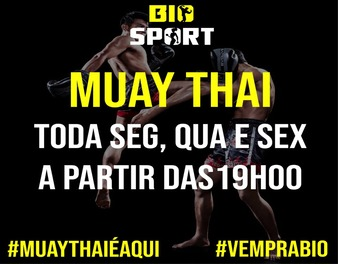
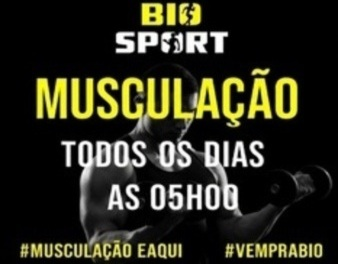
final do site

diff --git a/index.html b/index.html
@@ -66,19 +66,19 @@
                 <div class="topics">
                     <img src="./img/jump.png" alt="Jump">
                     <p>
-                        Venha fazer Jump conosco.
+                        Na vida, assim como no treino, às vezes você só precisa dar um grande jump de fé.
                     </p>
                 </div>
                 <div class="topics">
                     <img src="img/jiujitsu.jpg" alt="jiujitsu">
                     <p>
-                        Conheça nossa aula de Jiu jitsu.
+                        Jiu-Jitsu não é sobre vencer ou perder, mas sobre evoluir a cada queda.
                     </p>
                 </div>
                 <div class="topics">
-                    <img src="img/muaytai.jpg" alt="muaythai">
+                    <img src="img/musculacao.png" alt="muaythai">
                     <P>
-                        Venha praticar Muay thai em nossas aulas.
+                        A musculação não é apenas algumas horas de treino, mas um estilo de vida.
                     </P>
                 </div>
             </div>
@@ -105,7 +105,7 @@
                     funcionamento todos os dias, para que você tenha liberdade de treinar no seu ritmo.</p>
             </div>
             <div class="imagem">
-                <img src="./img/IMG_3.jpg" alt="img">
+                <img src="./img/IMG_4.jpg" alt="img">
             </div>
         </div>
     </section>
@@ -140,20 +140,26 @@
             <div class="card">
                 <img src="./img/IMG_1.jpg" alt="card1">
                 <h2>Jump</h2>
-                <p>É um exercício aeróbico dinâmico e divertido que utiliza mini trampolins (saltos elásticos) para realizar uma série de movimentos coreografados.</p>
-                <a href="./doc/panfleto Bio Sport .pdf" target="_blank" rel="noopener noreferrer" class="btn">CATÁLOGO</a>
+                <p>É um exercício aeróbico dinâmico e divertido que utiliza mini trampolins para realizar uma série de
+                    movimentos coreografados.</p>
+                <a href="./doc/panfleto Bio Sport .pdf" target="_blank" rel="noopener noreferrer"
+                    class="btn">CATÁLOGO</a>
             </div>
             <div class="card">
                 <img src="./img/IMG_2.jpg" alt="card1">
                 <h2>Jiu Jitsu</h2>
-                <p>Geralmente se divide em aquecimento/alongamento, instrução técnica e prática supervisionada (rolagem).</p>
-                <a href="./doc/panfleto Bio Sport .pdf" target="_blank!" rel="noopener noreferrer" class="btn">CATÁLOGO</a>
+                <p>Geralmente se divide em aquecimento/alongamento, instrução técnica e prática supervisionada
+                    (rolagem).</p>
+                <a href="./doc/panfleto Bio Sport .pdf" target="_blank!" rel="noopener noreferrer"
+                    class="btn">CATÁLOGO</a>
             </div>
             <div class="card">
                 <img src="./img/IMG_3.jpg" alt="card1">
                 <h2>Muay Thai</h2>
-                <p>Geralmente começa com alongamentos, corrida e polichinelos para preparar o corpo e aumentar a frequência cardíaca.</p>
-                <a href="./doc/panfleto Bio Sport .pdf" target="_blank" rel="noopener noreferrer" class="btn">CATÁLOGO</a>
+                <p>é um tipo de exercício de força que usa pesos, máquinas e o peso do próprio corpo para desenvolver e
+                    fortalecer os músculos.</p>
+                <a href="./doc/panfleto Bio Sport .pdf" target="_blank" rel="noopener noreferrer"
+                    class="btn">CATÁLOGO</a>
             </div>
         </div>
     </section>
@@ -162,21 +168,44 @@
 
     <address id="contato">
         <div class="container">
-
+            <div class="contato-item">
+                <a href="https://www.google.com/maps/place/Bio+Sport+training+center/@-23.5737687,-46.5339496,17z/data=!3m2!4b1!5s0x94ce5d941a9b53fb:0x6dceb027556c11f1!4m6!3m5!1s0x94ce5d941a249387:0xb2a203e63fb494cb!8m2!3d-23.5737736!4d-46.5313747!16s%2Fg%2F11bw3dq8fp?entry=ttu&g_ep=EgoyMDI1MTExMC4wIKXMDSoASAFQAw%3D%3D"
+                    target="_blank">
+                    <img src="./img/mapa.png" alt="mapa">Endereço</a>
+            </div>
         </div>
     </address>
     <!-- Rodapé -->
-     <footer>
+    <footer>
         <div class="container">
-
+            <div>
+                <p>&#169;<span id="copyrightYear"></span> Academia BioSport | <a href="https://github.com/Mauri902"
+                        target="_blank" rel="noopener noreferrer"><strong></strong>Mauricio Sena</a></p>
+            </div>
+            <div id="social">
+                <a href="mailto:biosportct@gmail.com?subjet=Contato Instagram"><img src="./img/e-mail.png"
+                        alt="e-mail"></a>
+                <a href="https://www.instagram.com/biosportct/" target="_blank"><img src="img/instagram.png"
+                        alt="instagram"></a>
+                <a href="https://www.facebook.com/biosportacademia" target="_blank"><img src="img/facebook.png"
+                        alt="facebook"></a>
+                <a href="https://www.youtube.com/@professorramos" target="_blank"><img src="img/e-mail.png"
+                        alt="E-mail"></a>
+            </div>
         </div>
-     </footer>
+    </footer>
 
-     <!-- topo do site -->
-     <div id="topo">
+    <!-- topo do site -->
+    <div id="topo">
         <a href="#inicio"><img src="./img/toplight.png" alt="icon top"></a>
-     </div>
-    
+    </div>
+    </div>
+    <!-- Ano automático -->
+    <script>
+        let ano = document.getElementById("copyrightYear")
+        let anoAtual = new Date().getFullYear()
+        ano.textContent = anoAtual
+    </script>
 
 </body>
 

diff --git a/style.css b/style.css
@@ -263,11 +263,13 @@ main h2 {
 
 #cartao {
     padding: 30px 10px;
+    text-align: center;
 }
 
 #cartao .container {
     display: flex;
     flex-direction: column;
+    align-items: center;
 }
 
 #cartao h2 {
@@ -281,24 +283,25 @@ main h2 {
     margin-bottom: 20px;
     font-weight: 500;
     color: var(--Branco);
+    text-align: center;
 }
 
 .card {
     background-color: var(--Cinza);
     background-position: center;
     margin-bottom: 25px;
-    border-style:double;
+    border-style: double;
     border-radius: 30px;
-    align-items: center;
+    text-align: center;
     border-color: var(--Amareloescuro);
     height: 480px;
-    
+    width: 358px;
 }
 
 .card img {
     border-radius: 30px;
     align-items: center;
-    height: 274px;
+    height: 272.5px;
 }
 
 
@@ -368,7 +371,9 @@ main h2 {
         flex-direction: column;
     }
 
-
+    .imagem {
+        text-align: center;
+    }
 
 }
 
@@ -410,6 +415,8 @@ main h2 {
     .container {
         max-width: 960px;
     }
+
+
 }
 
 /*--------------- fim - tablet landscape -------------*/
@@ -530,6 +537,16 @@ main h2 {
         display: flex;
         flex-direction: row;
     }
+
+    #cartao {
+        align-items: center;
+    }
+
+    #cartao .container {
+        display: flex;
+        flex-direction: row;
+    }
+
 }
 
 /*--------------- fim - Notebook/PC -------------*/
